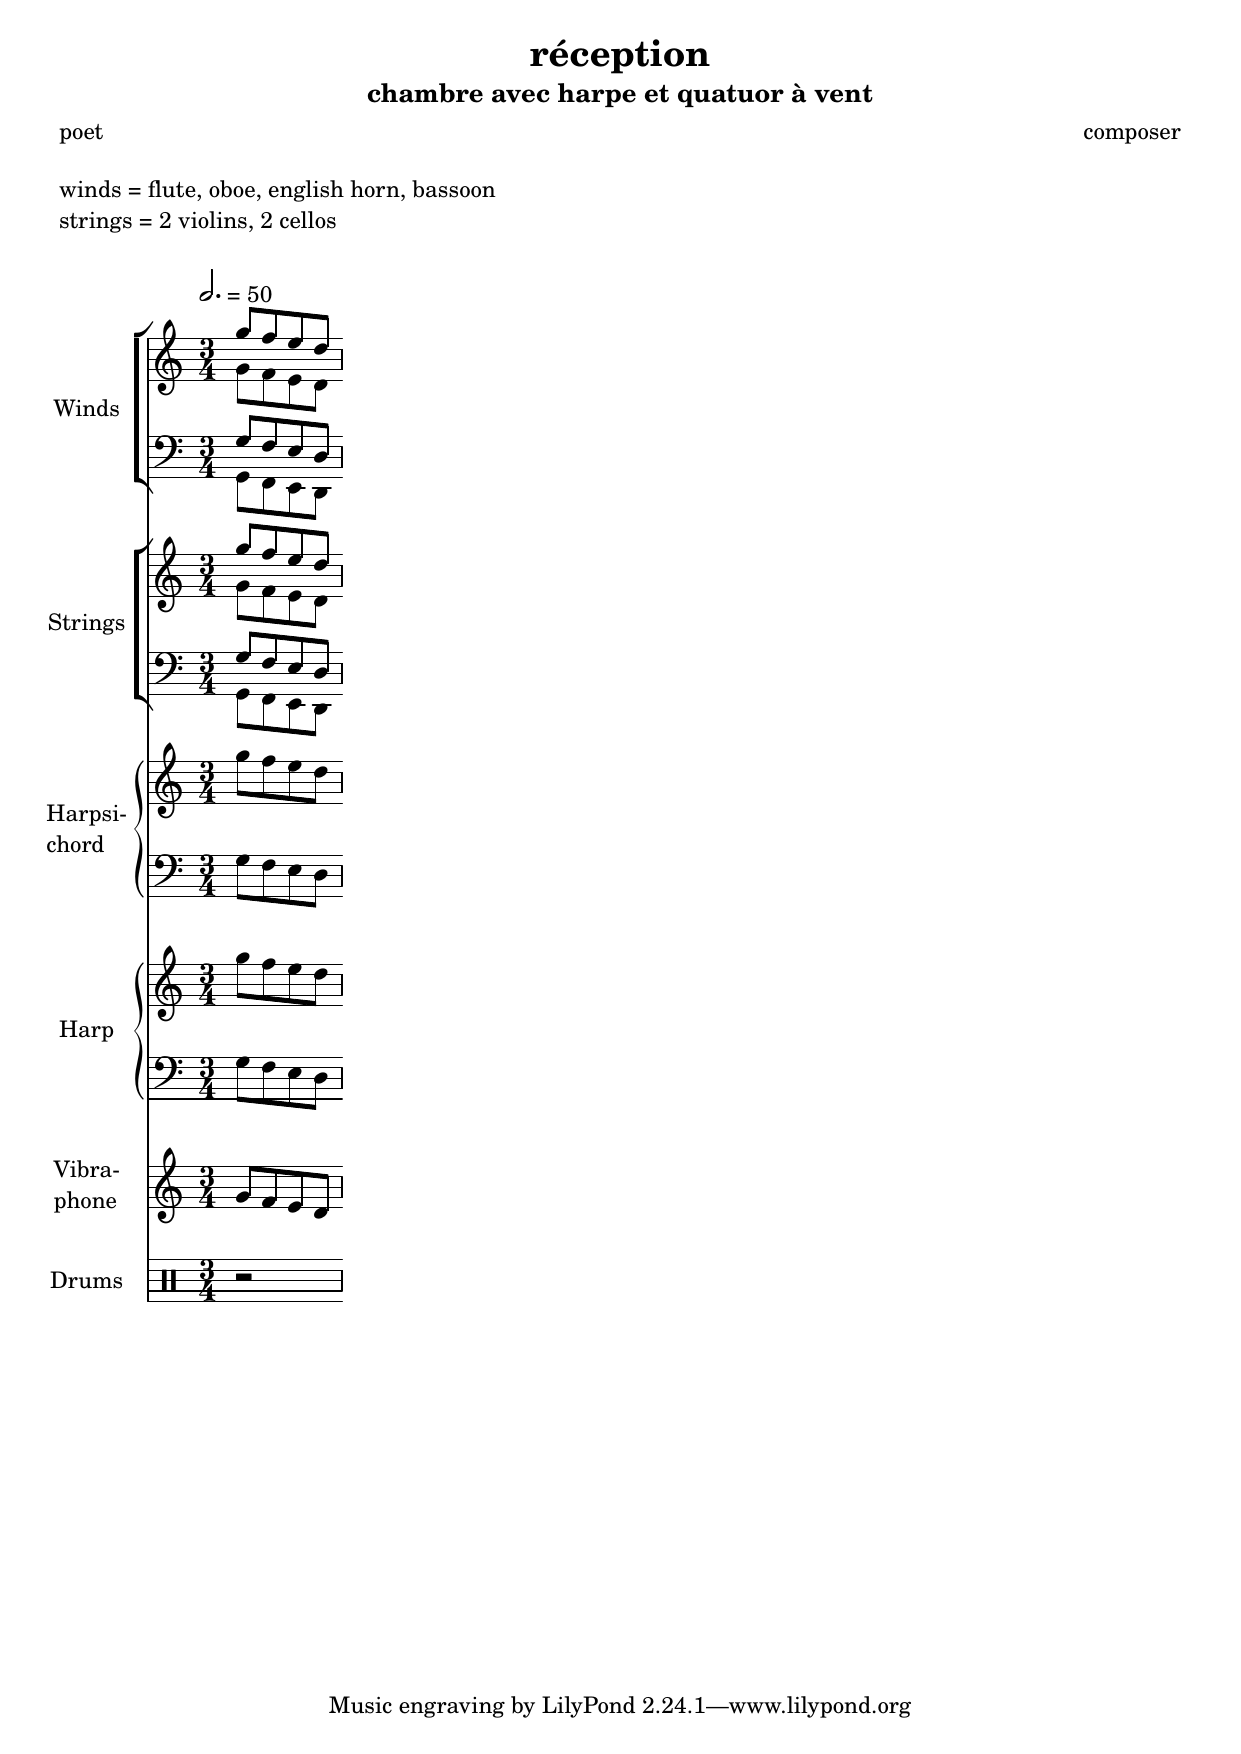
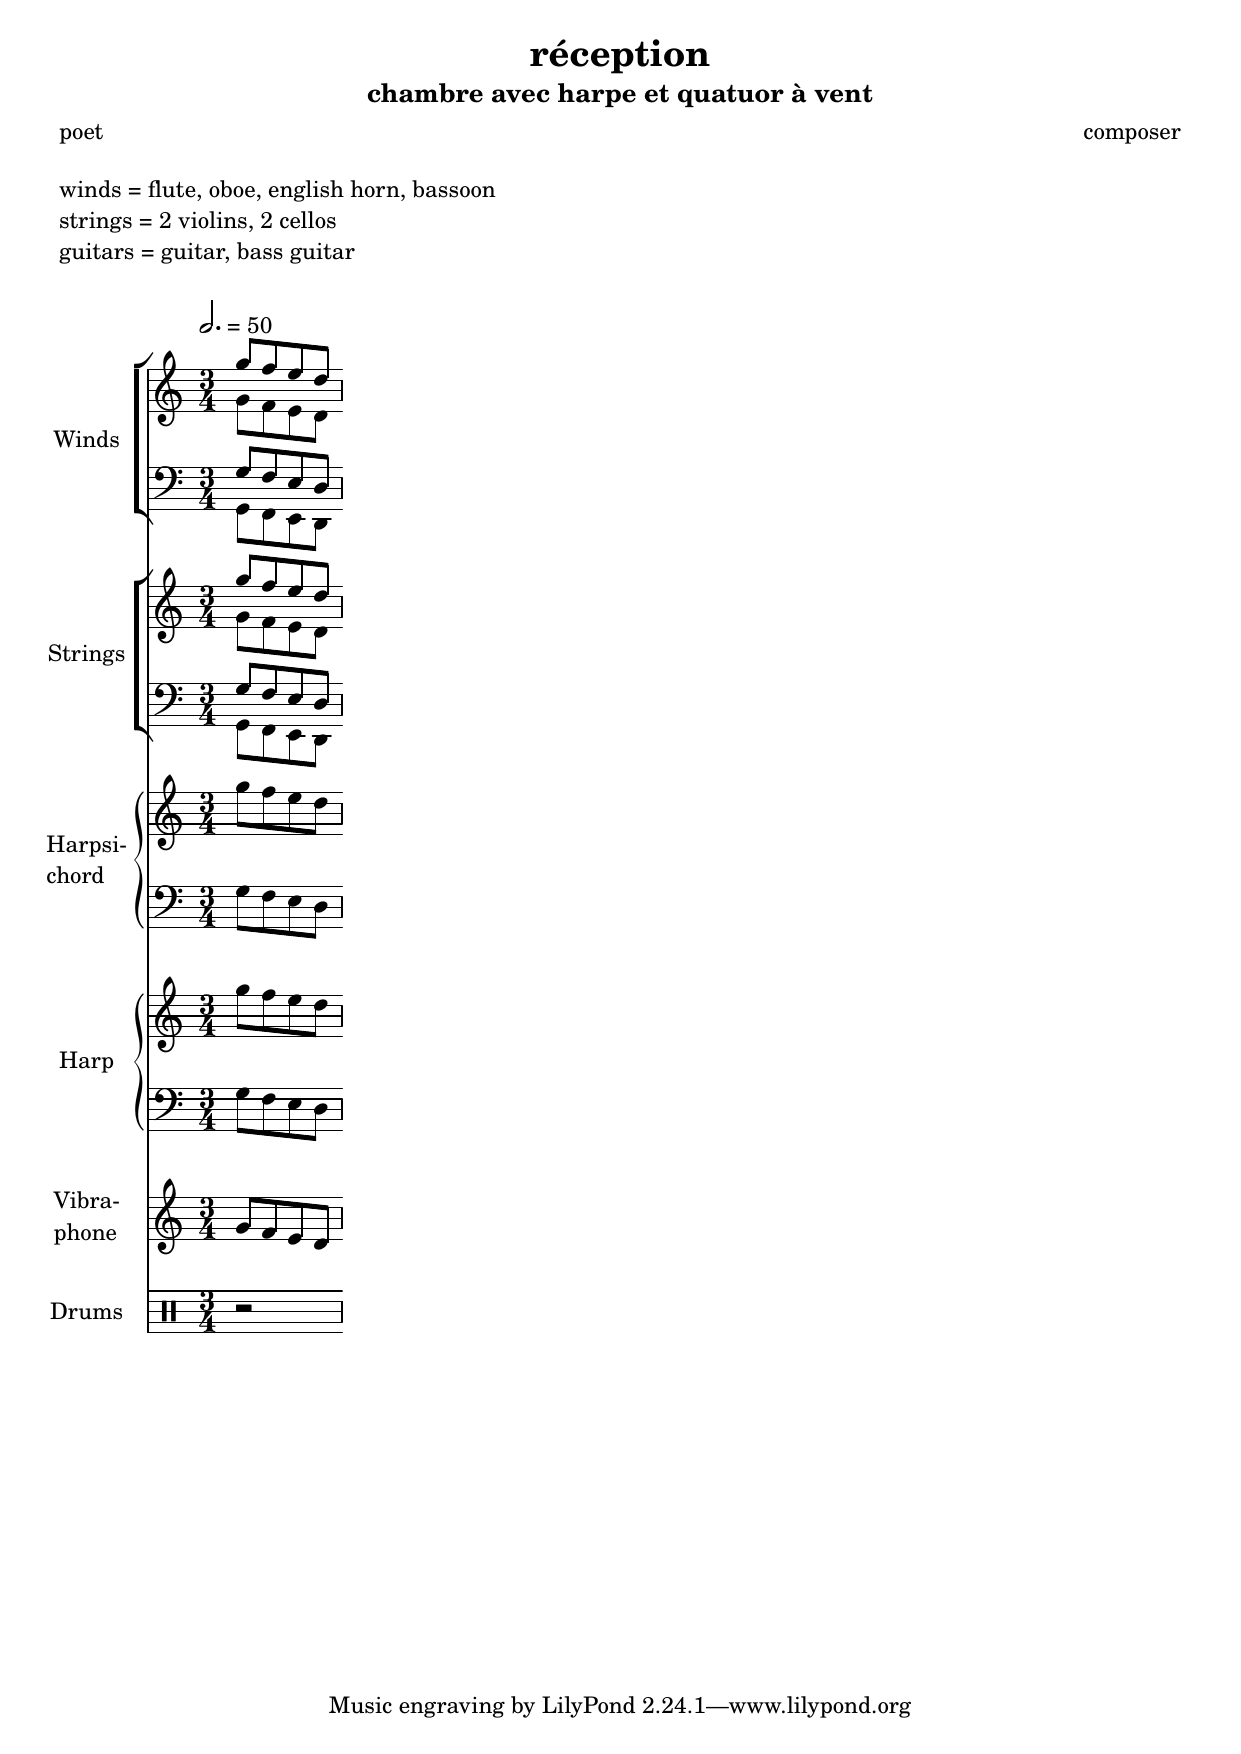
...

diff --git a/musica/templates/chan.html b/musica/templates/chan.html
@@ -3,7 +3,7 @@
 "http://www.w3.org/TR/xhtml1/DTD/xhtml1-strict.dtd">
 <html xmlns="http://www.w3.org/1999/xhtml" lang="en" xml:lang="en">
 <head>
-<!-- 2023-04-11 mar 21:22 -->
+<!-- 2023-04-11 mar 21:42 -->
 <meta http-equiv="Content-Type" content="text/html;charset=utf-8" />
 <meta name="viewport" content="width=device-width, initial-scale=1" />
 <title>Eclats de vers : Opus : Musica : Templates</title>
@@ -205,20 +205,20 @@
 <h2>Table of Contents</h2>
 <div id="text-table-of-contents" role="doc-toc">
 <ul>
-<li><a href="#orgcf1e69c">1. Septuor vocal</a></li>
+<li><a href="#org17c9051">1. Septuor vocal</a></li>
 </ul>
 </div>
 </div>
 
-<div id="outline-container-orgcf1e69c" class="outline-2">
-<h2 id="orgcf1e69c"><span class="section-number-2">1.</span> Septuor vocal</h2>
+<div id="outline-container-org17c9051" class="outline-2">
+<h2 id="org17c9051"><span class="section-number-2">1.</span> Septuor vocal</h2>
 <div class="outline-text-2" id="text-1">
 <p>
 Le résultat :
 </p>
 
 
-<div id="org7cf139e" class="figure">
+<div id="org94cb53c" class="figure">
 <p><img src="../../image/musica/templates/chan.png" alt="chan.png" />
 </p>
 </div>
@@ -275,7 +275,6 @@ La source :
 voiceSoprano = \fixed c'' {
   \global
   \tempo 2. = 50
-  \voiceOne
   % Music follows here.
   \anacrusis
 
@@ -283,7 +282,6 @@ voiceSoprano = \fixed c'' {
 
 voiceMezzo = \fixed c'' {
   \global
-  \voiceTwo
   % Music follows here.
   \anacrusis
 
@@ -291,7 +289,6 @@ voiceMezzo = \fixed c'' {
 
 voiceAlto = \fixed c' {
   \global
-  \voiceOne
   % Music follows here.
   \anacrusis
 
@@ -299,7 +296,6 @@ voiceAlto = \fixed c' {
 
 voiceCounter = \fixed c' {
   \global
-  \voiceTwo
   % Music follows here.
   \anacrusis
 
@@ -307,7 +303,6 @@ voiceCounter = \fixed c' {
 
 voiceTenor = \fixed c {
   \global
-  \voiceOne
   % Music follows here.
   \anacrusis
 
@@ -315,7 +310,6 @@ voiceTenor = \fixed c {
 
 voiceBarytone = \fixed c {
   \global
-  \voiceTwo
   % Music follows here.
   \anacrusis
 
@@ -377,8 +371,8 @@ instrumentSopranoMezzo = \new Staff = "SopranoMezzo"
 } { \clef treble
     %\override Staff.StaffSymbol.line-count = #7
     &lt;&lt;
-      \new Voice = "soprano" \voiceSoprano
-      \new Voice = "mezzo" \voiceMezzo
+      \new Voice = "soprano" { \voiceOne \voiceSoprano }
+      \new Voice = "mezzo" { \voiceTwo \voiceMezzo }
     &gt;&gt;
 }
 
@@ -392,8 +386,8 @@ instrumentAltoCounter = \new Staff = "AltoCounter"
 } { \clef alto
     %\override Staff.StaffSymbol.line-count = #7
     &lt;&lt;
-      \new Voice = "alto" \voiceAlto
-      \new Voice = "counter" \voiceCounter
+      \new Voice = "alto" { \voiceOne \voiceAlto }
+      \new Voice = "counter" { \voiceTwo \voiceCounter }
     &gt;&gt;
 }
 
@@ -407,8 +401,8 @@ instrumentTenorBarytone = \new Staff = "TenorBarytone"
 } { \clef varbaritone
     %\override Staff.StaffSymbol.line-count = #7
     &lt;&lt;
-      \new Voice = "tenor" \voiceTenor
-      \new Voice = "barytone" \voiceBarytone
+      \new Voice = "tenor" { \voiceOne \voiceTenor }
+      \new Voice = "barytone" { \voiceTwo \voiceBarytone }
     &gt;&gt;
 }
 
@@ -474,7 +468,7 @@ instrumentBass = \new Staff = "Bass"
 </div>
 <div id="postamble" class="status">
 <p class="author">Author: chimay</p>
-<p class="date">Created: 2023-04-11 mar 21:22</p>
+<p class="date">Created: 2023-04-11 mar 21:42</p>
 <p class="validation"><a href="https://validator.w3.org/check?uri=referer">Validate</a></p>
 </div>
 </body>

diff --git a/musica/templates/recep.html b/musica/templates/recep.html
@@ -3,7 +3,7 @@
 "http://www.w3.org/TR/xhtml1/DTD/xhtml1-strict.dtd">
 <html xmlns="http://www.w3.org/1999/xhtml" lang="en" xml:lang="en">
 <head>
-<!-- 2023-04-11 mar 21:22 -->
+<!-- 2023-04-11 mar 21:42 -->
 <meta http-equiv="Content-Type" content="text/html;charset=utf-8" />
 <meta name="viewport" content="width=device-width, initial-scale=1" />
 <title>Eclats de vers : Opus : Musica : Templates</title>
@@ -205,20 +205,20 @@
 <h2>Table of Contents</h2>
 <div id="text-table-of-contents" role="doc-toc">
 <ul>
-<li><a href="#org2741e80">1. Petit chambre avec harpe et quatuor à vent</a></li>
+<li><a href="#orga44d7f7">1. Petit chambre avec harpe et quatuor à vent</a></li>
 </ul>
 </div>
 </div>
 
-<div id="outline-container-org2741e80" class="outline-2">
-<h2 id="org2741e80"><span class="section-number-2">1.</span> Petit chambre avec harpe et quatuor à vent</h2>
+<div id="outline-container-orga44d7f7" class="outline-2">
+<h2 id="orga44d7f7"><span class="section-number-2">1.</span> Petit chambre avec harpe et quatuor à vent</h2>
 <div class="outline-text-2" id="text-1">
 <p>
 Le résultat :
 </p>
 
 
-<div id="org74233f3" class="figure">
+<div id="org31669b1" class="figure">
 <p><img src="../../image/musica/templates/recep.png" alt="recep.png" />
 </p>
 </div>
@@ -274,7 +274,6 @@ Le fichier source :
 voiceWindSoprano = \fixed c'' {
   \global
   \tempo 2. = 50
-  \voiceOne
   % Music follows here.
   \anacrusis
 
@@ -282,7 +281,6 @@ voiceWindSoprano = \fixed c'' {
 
 voiceWindAlto = \fixed c' {
   \global
-  \voiceTwo
   % Music follows here.
   \anacrusis
 
@@ -290,7 +288,6 @@ voiceWindAlto = \fixed c' {
 
 voiceWindTenor = \fixed c {
   \global
-  \voiceOne
   % Music follows here.
   \anacrusis
 
@@ -298,7 +295,6 @@ voiceWindTenor = \fixed c {
 
 voiceWindBass = \fixed c, {
   \global
-  \voiceTwo
   % Music follows here.
   \anacrusis
 
@@ -483,6 +479,7 @@ instrumentDrums = \new DrumStaff \with {
     \vspace #1
     \line { winds = flute, oboe, english horn, bassoon }
     \line { strings = 2 violins, 2 cellos }
+    \line { guitars = guitar, bass guitar }
     \vspace #1
   }
   \score {
@@ -498,8 +495,16 @@ instrumentDrums = \new DrumStaff \with {
     \midi {
       \context {
 	\Score
-	%midiChannelMapping = #'instrument
+	%midiChannelMapping = #'voice
 	%\enablePolymeter
+      }
+      \context {
+	\Staff
+	\remove "Staff_performer"
+      }
+      \context {
+	\Voice
+	\consists "Staff_performer"
       }
     }
   }
@@ -514,7 +519,7 @@ instrumentDrums = \new DrumStaff \with {
 </div>
 <div id="postamble" class="status">
 <p class="author">Author: chimay</p>
-<p class="date">Created: 2023-04-11 mar 21:22</p>
+<p class="date">Created: 2023-04-11 mar 21:42</p>
 <p class="validation"><a href="https://validator.w3.org/check?uri=referer">Validate</a></p>
 </div>
 </body>

diff --git a/musica/templates/sejour.html b/musica/templates/sejour.html
@@ -3,7 +3,7 @@
 "http://www.w3.org/TR/xhtml1/DTD/xhtml1-strict.dtd">
 <html xmlns="http://www.w3.org/1999/xhtml" lang="en" xml:lang="en">
 <head>
-<!-- 2023-04-11 mar 21:22 -->
+<!-- 2023-04-11 mar 21:42 -->
 <meta http-equiv="Content-Type" content="text/html;charset=utf-8" />
 <meta name="viewport" content="width=device-width, initial-scale=1" />
 <title>Eclats de vers : Opus : Musica : Templates</title>
@@ -205,20 +205,20 @@
 <h2>Table of Contents</h2>
 <div id="text-table-of-contents" role="doc-toc">
 <ul>
-<li><a href="#org8b4e53e">1. Petit chambre</a></li>
+<li><a href="#orge05183a">1. Petit chambre</a></li>
 </ul>
 </div>
 </div>
 
-<div id="outline-container-org8b4e53e" class="outline-2">
-<h2 id="org8b4e53e"><span class="section-number-2">1.</span> Petit chambre</h2>
+<div id="outline-container-orge05183a" class="outline-2">
+<h2 id="orge05183a"><span class="section-number-2">1.</span> Petit chambre</h2>
 <div class="outline-text-2" id="text-1">
 <p>
 Le résultat :
 </p>
 
 
-<div id="org6722159" class="figure">
+<div id="orged17706" class="figure">
 <p><img src="../../image/musica/templates/sejour.png" alt="sejour.png" />
 </p>
 </div>
@@ -274,7 +274,6 @@ La source :
 voiceWindSoprano = \fixed c'' {
   \global
   \tempo 2. = 50
-  \voiceOne
   % Music follows here.
   \anacrusis
 
@@ -282,7 +281,6 @@ voiceWindSoprano = \fixed c'' {
 
 voiceWindAlto = \fixed c' {
   \global
-  \voiceTwo
   % Music follows here.
   \anacrusis
 
@@ -290,7 +288,6 @@ voiceWindAlto = \fixed c' {
 
 voiceWindTenor = \fixed c {
   \global
-  \voiceOne
   % Music follows here.
   \anacrusis
 
@@ -298,7 +295,6 @@ voiceWindTenor = \fixed c {
 
 voiceWindBass = \fixed c, {
   \global
-  \voiceTwo
   % Music follows here.
   \anacrusis
 
@@ -501,7 +497,7 @@ instrumentDrums = \new DrumStaff \with {
 </div>
 <div id="postamble" class="status">
 <p class="author">Author: chimay</p>
-<p class="date">Created: 2023-04-11 mar 21:22</p>
+<p class="date">Created: 2023-04-11 mar 21:42</p>
 <p class="validation"><a href="https://validator.w3.org/check?uri=referer">Validate</a></p>
 </div>
 </body>
